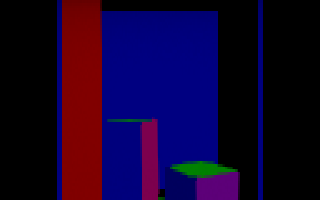
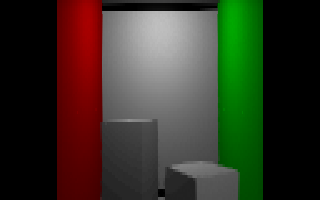
Direct lighting

diff --git a/source/RayTracer.cpp b/source/RayTracer.cpp
@@ -91,16 +91,38 @@ shared_ptr<Surfel>	RayTracer::findFirstIntersection(Ray const& r)
 	return m_surfaces->intersectRay(r);
 }
 
+Radiance3 RayTracer::getL_o(shared_ptr<Surfel> const& s, Vector3 const& wo)
+{
+	Radiance3 L_o = s->emittedRadiance(wo);
+	Point3 P = s->position;
+	Vector3 v = s->shadingNormal;
+
+	//Sum illumination from all lights
+	for (shared_ptr<Light> const& light : m_lights)
+	{
+		Point3 L_pos = light->position().xyz();
+		if (true)
+		{
+			Vector3 wi = (L_pos - P).direction();
+			Biradiance3 B = light->biradiance(P);
+			Color3 f = s->finiteScatteringDensity(wi, wo);
+			L_o += B * f * abs(wi.dot(v));
+		}
+	}
+	return L_o;
+}
+
 Radiance3 RayTracer::getL_i(Ray const& r)
 {
 	shared_ptr<Surfel> s = findFirstIntersection(r);
-	Radiance3 L_0 = Radiance3::zero();
+	Radiance3 L_o = Radiance3::zero();
 
 	if (s)
 	{
-		return Radiance3(s->shadingNormal) * 0.5f * Radiance3(0.5f);
+		return getL_o(s, -r.direction());
+		//return Radiance3(s->shadingNormal) * 0.5f * Radiance3(0.5f);
 	}
-	return L_0;
+	return L_o;
 }
 
 void RayTracer::trace(Point2int32 const& pixel)

diff --git a/source/App.cpp b/source/App.cpp
@@ -54,11 +54,13 @@ App::App(const GApp::Settings& settings) : GApp(settings) {
 	height = 3.0f;
 	radius = 2.0f;
 	//RayTracer GUI
-	fixedPrimitives = true;
+	fixedPrimitives = false;
 	multithreading = true;
 	resolutionList.append(GuiText("1x1"));
 	resolutionList.append(GuiText("320x200"));
 	resolutionList.append(GuiText("640x400"));
+	resolutionList.append(GuiText("1024x600"));
+	resolutionList.append(GuiText("1440x900"));
 	resolutionID = 1;
 	raysPerPixel = 1024;
 	z_near = -3;

diff --git a/source/RayTracer.h b/source/RayTracer.h
@@ -22,6 +22,7 @@ private:
 	void trace(Point2int32 const&);
 	Radiance3 getL_i(Ray const&);
 	Radiance3 getL_i(Point3 const&, Vector3 const&);
+	Radiance3 getL_o(shared_ptr<Surfel> const&, Vector3 const&);
 	float intersectRaySphere(Sphere const& s, Point3 const& P, Vector3 const& w);
 	float intersectRayPlane(Point3 const& C, Vector3 const& n, Point3 const& P, Vector3 const& w);
 	float RayTracer::intersectRayTriangle(Point3 const V[3], float b[3], Point3 const& P, Vector3 const& w);
